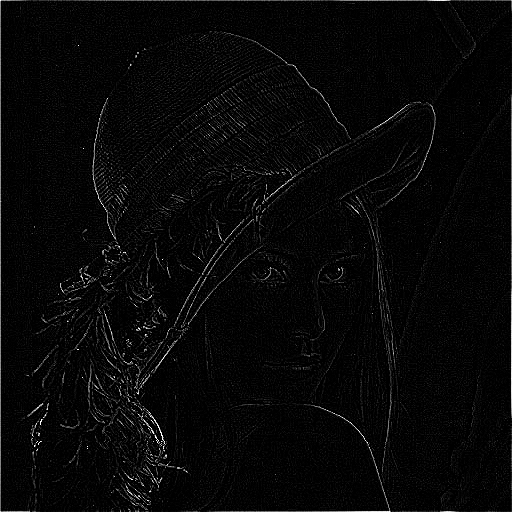
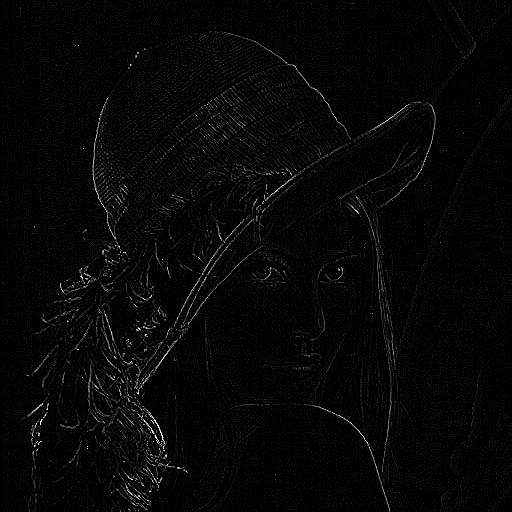
Take params from CLI | Dynamic filter use | Padding bug fix

Changed region(s): [[0.9688, 0.0, 1.0, 0.0312], [0.0, 0.9688, 0.0312, 1.0], [0.0, 0.0, 0.0312, 0.0312]]

diff --git a/src/mpi/mpi_implementation.cpp b/src/mpi/mpi_implementation.cpp
@@ -5,19 +5,53 @@
 #include <iostream>
 #include <algorithm>
 #include <cassert>
+#include <filesystem>
+
+#include "../common_utilities.cpp"
 using namespace std;
+namespace fs = std::filesystem;
 
 
-cv::Mat initializeKernelMat(int kernel_size);                               // initializes a kernel of dynamic size
+// cv::Mat initializeKernelMat(int kernel_size);                               // initializes a kernel of dynamic size
 cv::Mat convolve(const cv::Mat& paddedSrc, const cv::Mat& kernel);          // performs convolution using custom functions
 cv::Mat validConvolution(const cv::Mat& src, const cv::Mat& kernel);        // performs convolution using opencv functions
 
+// run with: mpiexec -n 5 build\Debug\mpi_opencv_app.exe 3 images\input\lena.png
 int main(int argc, char* argv[])
 {
+    int kernel_size;
+    fs::path abs_input_img_path, abs_output_img_path;
 
-    int kernel_size = 3;
-    string abs_input_img_path = "D:/ASU/sem 10/HPC/Parallel_High_Pass_Filter/images/input/lena.png";
-    string abs_output_img_path = "D:/ASU/sem 10/HPC/Parallel_High_Pass_Filter/images/output/lena_MPI_3x3.png";
+    // take arguments from cli 
+    //  check for correct number of arguments
+    if (argc != 3) {
+        std::cerr << "Usage: " << argv[0] << " <kernel_size> <input_image_path>\n";
+        MPI_Abort(MPI_COMM_WORLD, 1);
+    }
+
+    try {
+        // parse arguments
+        kernel_size = std::stoi(argv[1]);
+        abs_input_img_path = argv[2];
+
+        // validate kernel size
+        if (kernel_size < 1 || kernel_size % 2 == 0) {
+            throw std::invalid_argument("Kernel size must be odd and positive");
+        }
+
+        // construct output path
+        abs_output_img_path = abs_input_img_path.parent_path().parent_path() / "output" /
+                                (abs_input_img_path.stem().string() + 
+                                "_MPI_" + std::to_string(kernel_size) + "x" + 
+                                std::to_string(kernel_size) + 
+                                abs_input_img_path.extension().string());
+
+        cout << "Processing:\n" << "Kernel size: " << kernel_size << "\n" << "Input path: " << abs_input_img_path << "\n"<< "Output path: " << abs_output_img_path << endl;
+
+    } catch (const std::exception& e) {
+        std::cerr << "Error: " << e.what() << std::endl;
+        MPI_Abort(MPI_COMM_WORLD, 1);
+    }
 
     MPI_Init(&argc, &argv);
     int size, rank;
@@ -28,7 +62,7 @@ int main(int argc, char* argv[])
     cv::Mat image;
     int rows, cols;
     if(rank==0){
-        image = cv::imread(abs_input_img_path, cv::IMREAD_GRAYSCALE);
+        image = cv::imread(abs_input_img_path.string(), cv::IMREAD_GRAYSCALE);
         cout << endl << "Number of Rows ("<<image.rows<<") , Number of Columns ("<<image.cols<<")" << endl;
         rows = image.rows;
         cols = image.cols;
@@ -43,7 +77,7 @@ int main(int argc, char* argv[])
     MPI_Bcast(&cols, 1, MPI_INT, 0, MPI_COMM_WORLD);
     
     // all processes initialize the kernel
-    cv::Mat kernel = initializeKernelMat(kernel_size);
+    cv::Mat kernel = createHighPassKernel(kernel_size);
     int kernel_radius = (kernel_size - 1) / 2;
 
     // root process prepares for distribtuting image rows
@@ -99,11 +133,23 @@ int main(int argc, char* argv[])
                       local_img.ptr(0), elements_to_send_count, MPI_UNSIGNED_CHAR, prev_rank, 0,
                       MPI_COMM_WORLD, MPI_STATUS_IGNORE);
                     
+    }else{ 
+        // if you are the first process, send the top buffer row to your self
+        MPI_Sendrecv( local_img.ptr(top_row_index), elements_to_send_count, MPI_UNSIGNED_CHAR, 0, 0,
+                      local_img.ptr(0), elements_to_send_count, MPI_UNSIGNED_CHAR, 0, 0,
+                      MPI_COMM_WORLD, MPI_STATUS_IGNORE);
+
     }
     if(next_rank < size){
         MPI_Sendrecv( local_img.ptr(bottom_row_index), elements_to_send_count, MPI_UNSIGNED_CHAR, next_rank, 0,
                       local_img.ptr(top_row_index+n_local_rows), elements_to_send_count, MPI_UNSIGNED_CHAR, next_rank, 0,
                       MPI_COMM_WORLD, MPI_STATUS_IGNORE);
+    }else{ 
+        // if you are the last process, send the bottom buffer row to your self
+        MPI_Sendrecv( local_img.ptr(bottom_row_index), elements_to_send_count, MPI_UNSIGNED_CHAR, size-1, 0,
+                      local_img.ptr(top_row_index+n_local_rows), elements_to_send_count, MPI_UNSIGNED_CHAR, size-1, 0,
+                      MPI_COMM_WORLD, MPI_STATUS_IGNORE);
+
     }
 
     // to make sure all processes communicated the buffer rows before proceeding
@@ -116,7 +162,7 @@ int main(int argc, char* argv[])
     if(rank == 1) cout << "Rank (" << rank << "), output dimensions before padding: (" << local_img.rows << ", " << local_img.cols << ")" << endl;
 
     // apply padding to the left and right of the image
-    cv::copyMakeBorder(local_img, local_img, 0, 0, kernel_radius, kernel_radius, cv::BORDER_CONSTANT);
+    cv::copyMakeBorder(local_img, local_img, 0, 0, kernel_radius, kernel_radius, cv::BORDER_REPLICATE);
     if(rank == 1){
         cout << "Rank (" << rank << "), output dimensions after padding: (" << local_img.rows << ", " << local_img.cols << ")" << endl;
         cv::imshow("local of rank 1 after padding", local_img);
@@ -138,10 +184,11 @@ int main(int argc, char* argv[])
                 0, MPI_COMM_WORLD);
     
     if(rank == 0){
+        
         cout << "Rank (" << rank << "), output dimensions of the final image: (" << image.rows << ", " << image.cols << ")" << endl;
         cv::imshow("Final gathered image", image);
         cv::waitKey(0);
-        cv::imwrite(abs_output_img_path, image);
+        cv::imwrite(abs_output_img_path.string(), image);
     }
     
 
@@ -155,14 +202,14 @@ int main(int argc, char* argv[])
 
 
 
-cv::Mat initializeKernelMat(int kernel_size) {
-    // assert(kernel_size == 3 && "This function only supports a 3×3 kernel");
-    return (cv::Mat_<float>(3,3) << 
-    0.0f, -1.0f,  0.0f,
-   -1.0f,  4.0f, -1.0f,
-    0.0f, -1.0f,  0.0f
-    );
-}
+// cv::Mat initializeKernelMat(int kernel_size) {
+//     // assert(kernel_size == 3 && "This function only supports a 3×3 kernel");
+//     return (cv::Mat_<float>(3,3) << 
+//     0.0f, -1.0f,  0.0f,
+//    -1.0f,  4.0f, -1.0f,
+//     0.0f, -1.0f,  0.0f
+//     );
+// }
 
 
 cv::Mat convolve(const cv::Mat& src, const cv::Mat& kernel) {
@@ -187,8 +234,6 @@ cv::Mat convolve(const cv::Mat& src, const cv::Mat& kernel) {
                 for (int kx = -kr; kx <= kr; ++kx) {
                     int yy = k_center_y + ky;
                     int xx = k_center_x + kx;
-                    // yy = std::clamp(yy, 0, H - 1);
-                    // xx = std::clamp(xx, 0, W - 1);
 
                     float kval = kernel.at<float>(ky + kr, kx + kr);
                     uchar pix  = src.at<uchar>(yy, xx);

diff --git a/src/common_utilities.cpp b/src/common_utilities.cpp
@@ -1,0 +1,17 @@
+#include <opencv2/opencv.hpp>
+#include <opencv2/imgcodecs.hpp>
+#include <opencv2/highgui.hpp>
+
+cv::Mat createHighPassKernel(int size) {
+    if(size == 3) {
+        return (cv::Mat_<float>(3,3) << 
+            0.0f, -1.0f,  0.0f,
+            -1.0f,  4.0f, -1.0f,
+            0.0f, -1.0f,  0.0f
+            );
+    }   
+    cv::Mat kernel = cv::Mat::ones(size, size, CV_32F) * -1;
+    int center = size / 2;
+    kernel.at<float>(center, center) = size * size - 1;
+    return kernel;
+}

diff --git a/README.md b/README.md
@@ -63,3 +63,9 @@ Team of **5 members** are required to:
 │ └── screenshots/
 └── README.md
 ```
+
+## 🗂 How to run
+### MPI
+```
+mpiexec -n 5 build\Debug\mpi_opencv_app.exe 3 images\input\lena.png
+```
